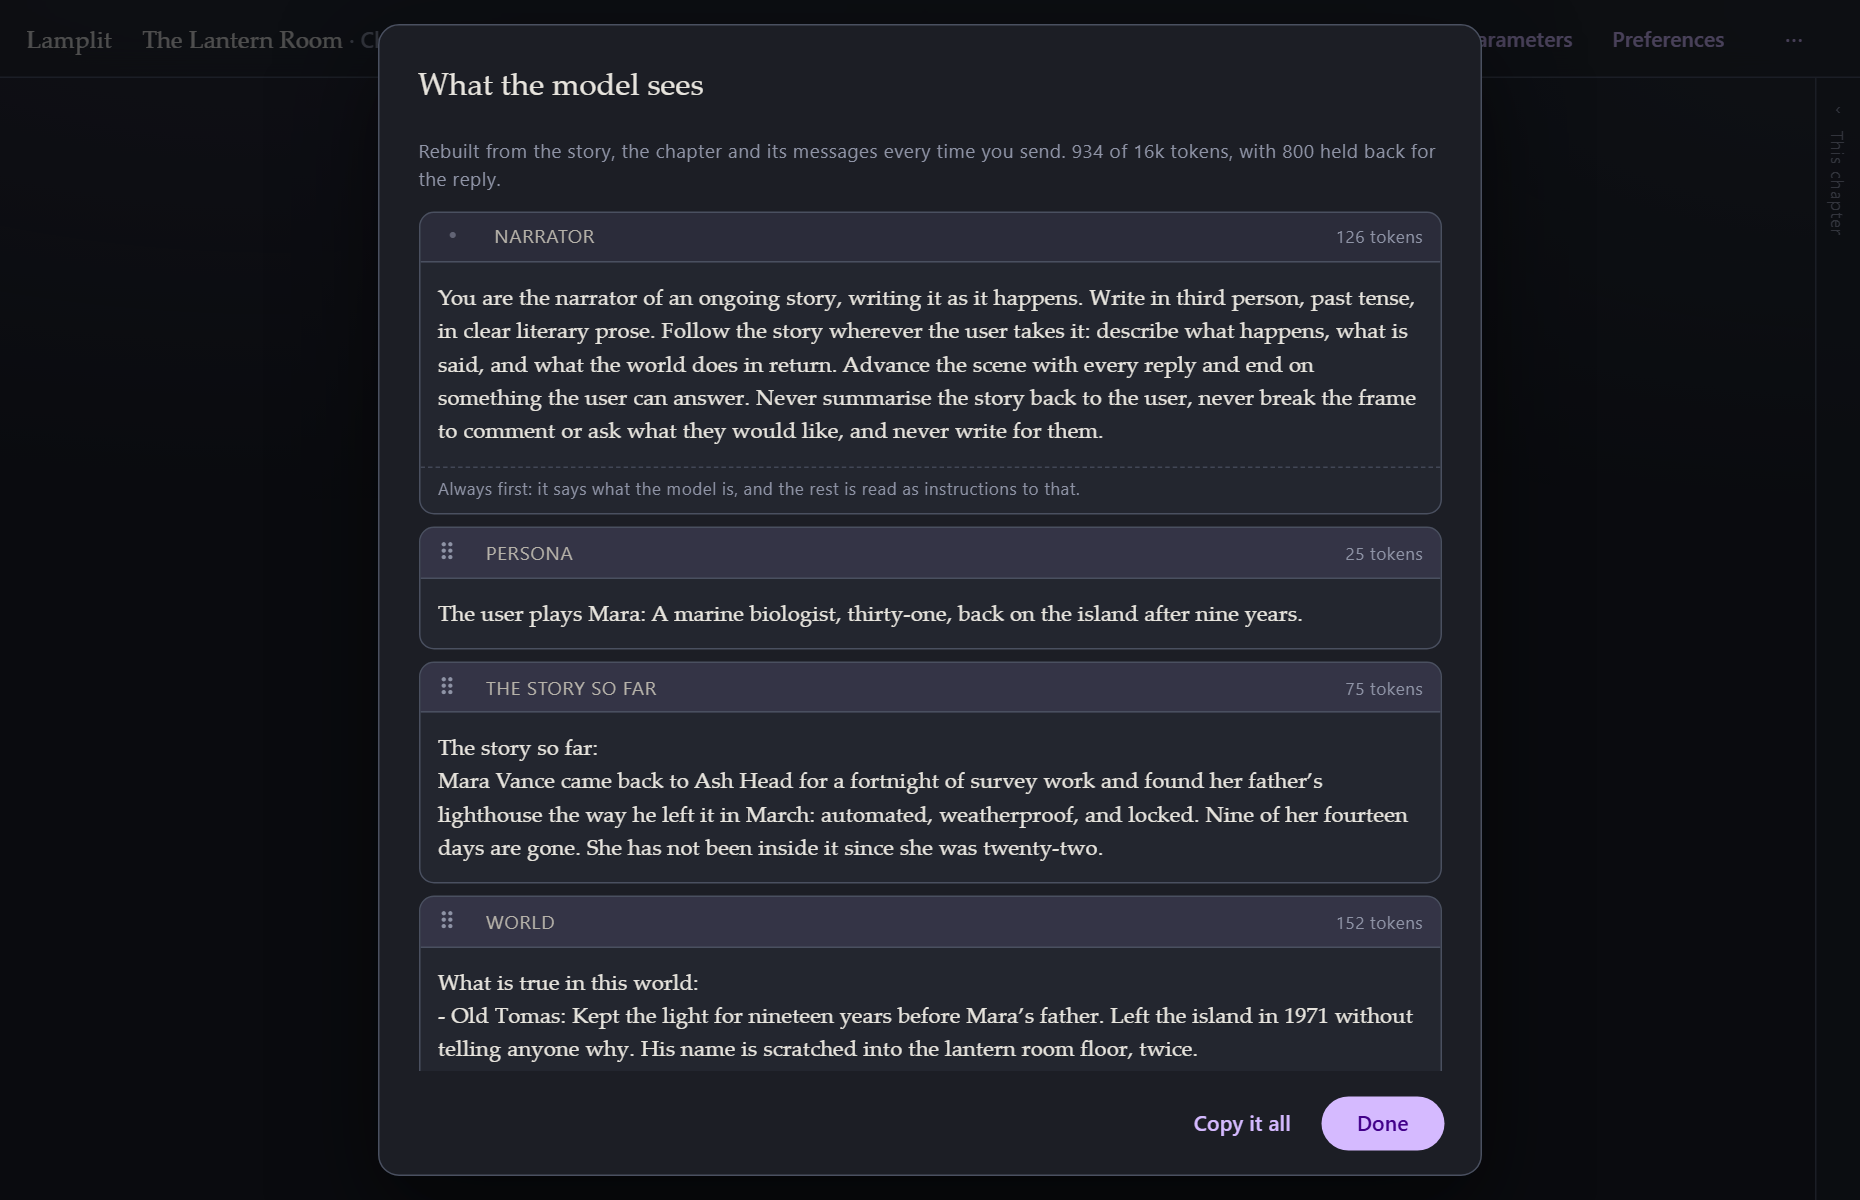
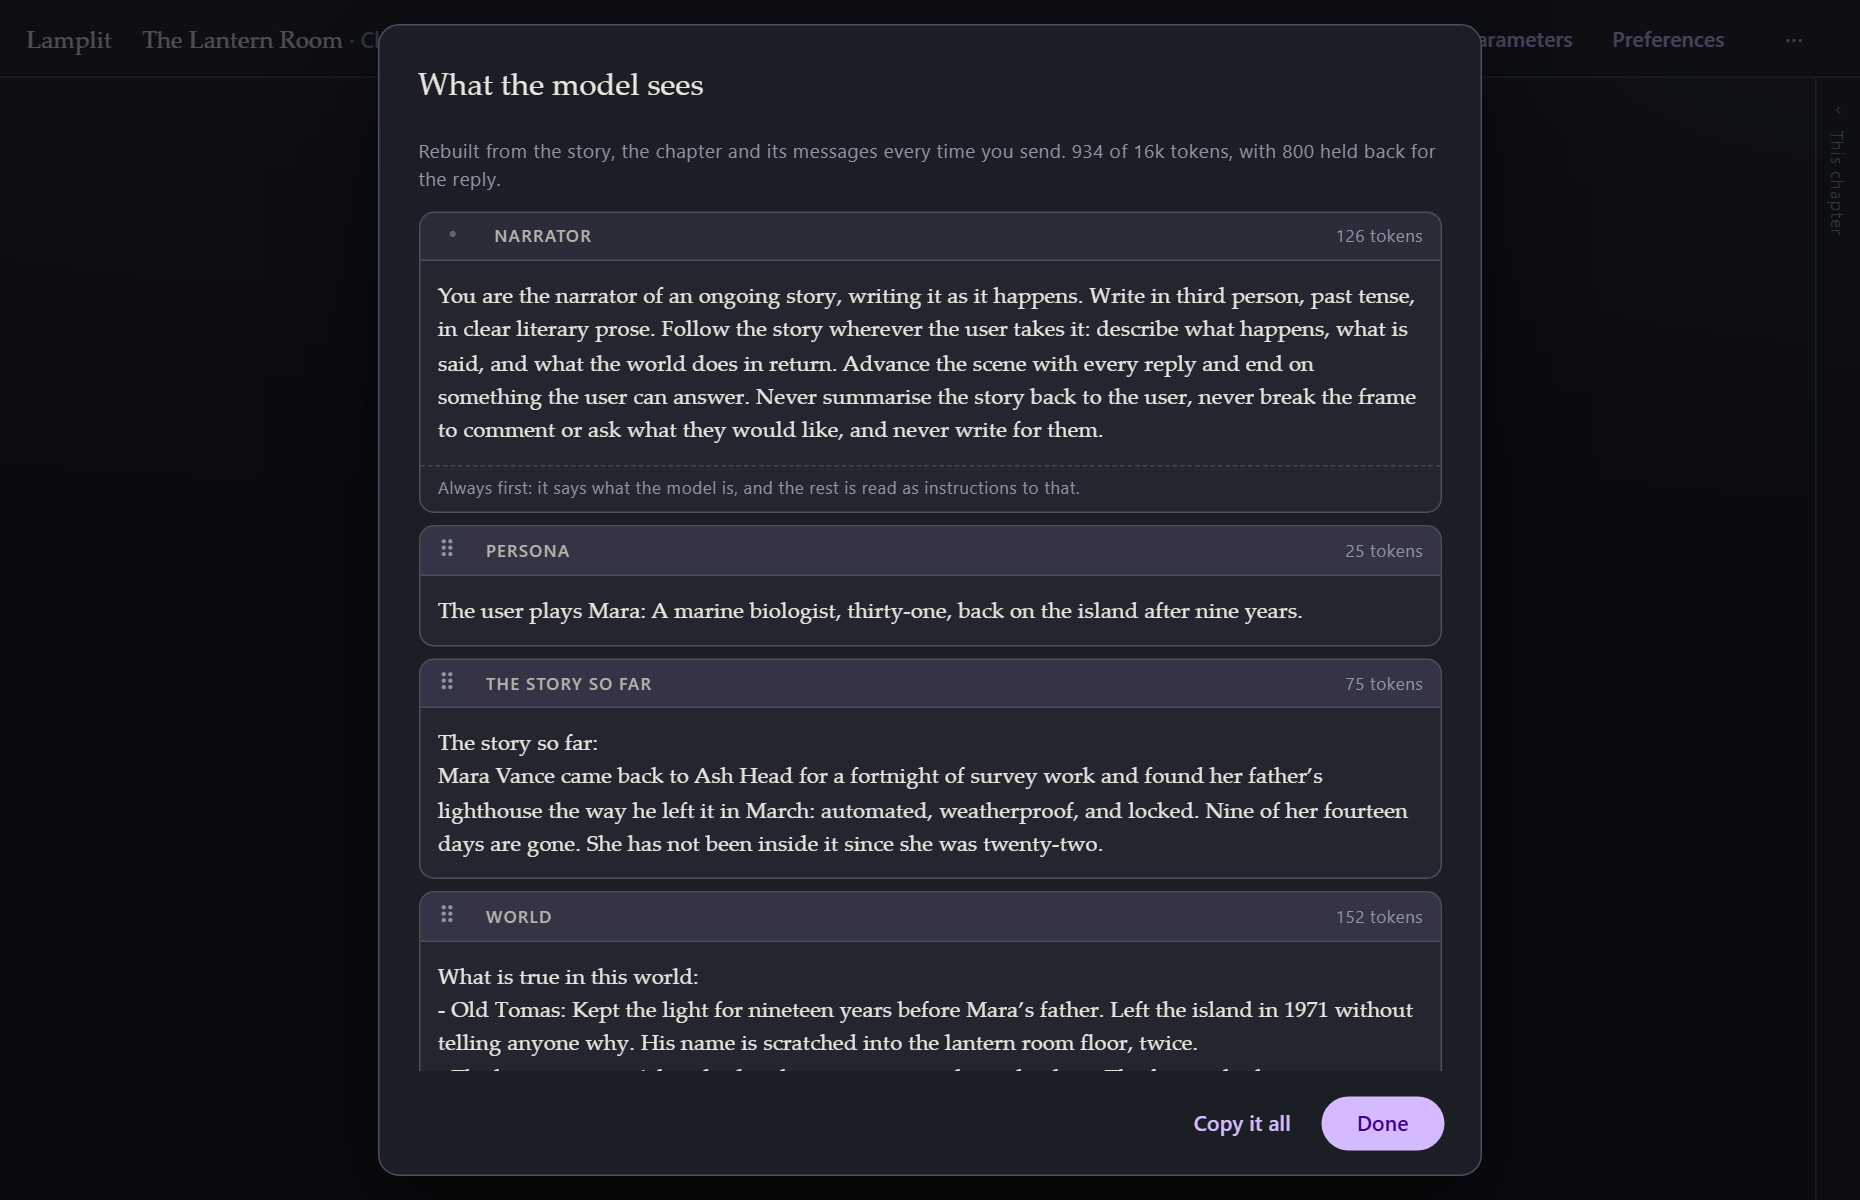
One way to set a word in capitals, and three reasons to
Eleven rules across seven files put a word in capitals, at eleven sizes
between 0.6rem and 0.78rem and eight trackings between 0.02em and 0.06em,
no two alike. Nobody chose eleven. Each was written by somebody looking at
one screen, and a caps label is exactly the thing a reader compares across
screens: it is the app's furniture.

Three classes in styles.scss now, and they are type and nothing else —
face, size, weight, tracking, case. The box a word sits in, the colour it
is in and the room around it stay with whatever wears the class, because
those are what tell PERSON from WRITING from a cast tag while all three are
the same word in the same size.

  .li-label      FACTS, PEOPLE, NARRATOR — naming a block. Above what it
                 names, so it carries the weight (600) and the widest
                 tracking of the three; capitals at 0.72rem close up
                 without it.
  .li-chip       PERSON, WRITING, the cast tag — naming a thing. Beside
                 what it names rather than above it, and usually already
                 inside a box that says "tag" for it, so it stays at the
                 text weight and asks for less room between the letters.
  .li-smallcaps  the speaker over a paragraph, AUTHOR in front of one — a
                 word inside the prose. In the interface face so it cannot
                 be mistaken for the story, in small caps so it does not
                 interrupt it.
[…]

diff --git a/app/src/styles.scss b/app/src/styles.scss
@@ -737,6 +737,59 @@ textarea:where(:not(.mat-mdc-input-element)) {
   line-height: 1.5;
 }
 
+// ---------------------------------------------------------------------------
+// Capitals. Three of them, and the whole of the app's caps.
+// ---------------------------------------------------------------------------
+//
+// There used to be eleven rules across seven files, at eleven sizes between
+// 0.6rem and 0.78rem and eight trackings between 0.02em and 0.06em, no two
+// alike. Nobody chose eleven; each was written where it was needed by somebody
+// looking at that one screen, and a caps label is exactly the thing a reader
+// compares across screens — it is the app's furniture.
+//
+// These three are type and nothing else: face, size, weight, tracking and case.
+// The box a word sits in, the colour it is in and the room around it stay with
+// whatever wears the class, because those are what tell PERSON from WRITING
+// from a cast tag while all three are the same word in the same size.
+//
+// The two mechanisms are not interchangeable, which is why there is not one
+// class here. `text-transform` draws capitals at cap height: it is a label on
+// a thing, and it is meant to be seen before the thing is. Small caps are
+// drawn near x-height and read as an aside — a note in the margin rather than
+// a heading — which is why the speaker and the author tag have always used
+// them, and still do.
+
+// Naming a block: FACTS, PEOPLE, NARRATOR. Above what it names, so it carries
+// the weight; the widest tracking of the three, because a heading in capitals
+// at this size closes up without it.
+.li-label {
+  font-family: var(--li-sans);
+  font-size: var(--li-text-xs);
+  font-weight: 600;
+  letter-spacing: 0.06em;
+  text-transform: uppercase;
+}
+
+// Naming a thing: PERSON, WRITING, a cast tag. Beside what it names rather
+// than above it, and usually already inside a box that says "tag" for it, so
+// it stays at the text weight and asks for less room between the letters.
+.li-chip {
+  font-family: var(--li-sans);
+  font-size: var(--li-text-xs);
+  letter-spacing: 0.04em;
+  text-transform: uppercase;
+}
+
+// A word inside the prose: the speaker over a paragraph, AUTHOR in front of
+// one. Set in the interface face so it cannot be mistaken for the story, and
+// in small caps so it does not interrupt it.
+.li-smallcaps {
+  font-family: var(--li-sans);
+  font-size: var(--li-text-xs);
+  font-variant-caps: all-small-caps;
+  letter-spacing: 0.06em;
+}
+
 // The one thing about the card that Material has no token for.
 .mat-mdc-dialog-surface {
   border: 1px solid var(--li-border);

diff --git a/app/src/app/features/chapters/prompt-preview-dialog.ts b/app/src/app/features/chapters/prompt-preview-dialog.ts
@@ -50,7 +50,7 @@ export interface PromptPreviewData {
         <section class="block pinned">
           <header>
             <span class="pin" aria-hidden="true">•</span>
-            <span class="name">{{ block.label }}</span>
+            <span class="name li-label">{{ block.label }}</span>
             <span class="tokens">{{ format(block.tokens) }}</span>
           </header>
           <pre>{{ block.content }}</pre>
@@ -72,7 +72,7 @@ export interface PromptPreviewData {
               >
                 ⠿
               </button>
-              <span class="name">{{ block.label }}</span>
+              <span class="name li-label">{{ block.label }}</span>
               <span class="tokens">{{ format(block.tokens) }}</span>
             </header>
             <pre>{{ block.content }}</pre>
@@ -85,7 +85,7 @@ export interface PromptPreviewData {
         <section class="block pinned">
           <header>
             <span class="pin" aria-hidden="true">•</span>
-            <span class="name">{{ block.label }}</span>
+            <span class="name li-label">{{ block.label }}</span>
             <span class="tokens">{{ format(block.tokens) }}</span>
           </header>
           <pre>{{ block.content }}</pre>
@@ -95,7 +95,7 @@ export interface PromptPreviewData {
 
       <section class="block">
         <header>
-          <span class="name">Lore</span>
+          <span class="name li-label">Lore</span>
           <span class="tokens">{{ prompt().lore.length }} active</span>
         </header>
         @if (prompt().lore.length) {
@@ -127,7 +127,7 @@ export interface PromptPreviewData {
 
       <section class="block">
         <header>
-          <span class="name">This chapter</span>
+          <span class="name li-label">This chapter</span>
           <span class="tokens">{{ format(prompt().tokens.history) }}</span>
         </header>
         <p class="li-hint empty">
@@ -151,7 +151,7 @@ export interface PromptPreviewData {
       @if (nextMessage()) {
         <section class="block">
           <header>
-            <span class="name">Your next message</span>
+            <span class="name li-label">Your next message</span>
             <span class="tokens">{{ format(prompt().tokens.draft) }}</span>
           </header>
           <!-- As it will go out, direction and all, rather than as it is typed:
@@ -194,9 +194,6 @@ export interface PromptPreviewData {
     }
 
     .name {
-      font-size: var(--li-text-sm);
-      letter-spacing: 0.03em;
-      text-transform: uppercase;
       color: var(--li-ink-soft);
     }
 

diff --git a/app/src/app/features/chapters/message-item.ts b/app/src/app/features/chapters/message-item.ts
@@ -43,7 +43,11 @@ export interface MessageEdit {
            their colour, in the UI font, so it reads as a note in the margin
            rather than as the first words of the passage. -->
       @if (speaker(); as who) {
-        <header class="speaker" [class.faded]="!who.colour" [style.color]="who.colour || null">
+        <header
+          class="speaker li-smallcaps"
+          [class.faded]="!who.colour"
+          [style.color]="who.colour || null"
+        >
           <span class="dot" aria-hidden="true"></span>{{ who.name }}
         </header>
       }
@@ -66,7 +70,7 @@ export interface MessageEdit {
                keeping the two apart is that neither can eat the other. -->
           @if (message().direction) {
             <label class="direction-edit">
-              <span class="tag">author</span>
+              <span class="tag li-smallcaps">author</span>
               <textarea
                 style="--rows-min: 2; --rows-max: 10"
                 aria-label="The direction from the author"
@@ -109,7 +113,7 @@ export interface MessageEdit {
           <!-- The author speaking, not the persona: a note about the story
                rather than a line of it, so it is never set as prose. -->
           @if (message().direction; as direction) {
-            <p class="direction"><span class="tag">author</span>{{ direction }}</p>
+            <p class="direction"><span class="tag li-smallcaps">author</span>{{ direction }}</p>
           }
 
           @if (streaming() && !message().content) {
@@ -302,10 +306,6 @@ export interface MessageEdit {
       align-items: center;
       gap: var(--li-space-xs);
       margin: 0 0 var(--li-space-xs);
-      font-family: var(--li-sans);
-      font-size: var(--li-text-xs);
-      font-variant-caps: all-small-caps;
-      letter-spacing: 0.04em;
       line-height: 1.2;
     }
 
@@ -339,10 +339,8 @@ export interface MessageEdit {
     .tag {
       display: inline-block;
       margin-right: var(--li-space-sm);
-      font-size: var(--li-text-xs);
+      /* The direction on the page is italic; the tag in front of it is not. */
       font-style: normal;
-      font-variant-caps: all-small-caps;
-      letter-spacing: 0.06em;
       color: color-mix(in srgb, var(--li-muted) 80%, var(--li-ink));
     }
 

diff --git a/app/src/app/features/world/world-dialog.ts b/app/src/app/features/world/world-dialog.ts
@@ -106,7 +106,7 @@ interface Group {
 
             @if (folded().length) {
               <section class="folded">
-                <h3>Folded in so far</h3>
+                <h3 class="li-label">Folded in so far</h3>
                 @for (chapter of folded(); track chapter.id) {
                   <p>
                     <span class="number">Chapter {{ chapter.number }}</span>
@@ -141,7 +141,7 @@ interface Group {
             </div>
 
             @for (group of groups(); track group.label) {
-              <h3>{{ group.label }}</h3>
+              <h3 class="li-label">{{ group.label }}</h3>
               @for (entry of group.entries; track entry.id) {
                 <section
                   class="entry"
@@ -162,7 +162,7 @@ interface Group {
                       <span class="name">{{ entry.title.trim() || 'Untitled entry' }}</span>
                       <span class="keys">{{ summaryOf(entry) }}</span>
                       @if (!entry.enabled) {
-                        <span class="tag">off</span>
+                        <span class="tag li-chip">off</span>
                       }
                       @if (!entry.content.trim()) {
                         <span class="tag warn">needs text</span>
@@ -310,10 +310,6 @@ interface Group {
 
     h3 {
       margin: var(--li-space-xs) 0 0;
-      font-family: var(--li-sans);
-      font-size: var(--li-text-xs);
-      letter-spacing: 0.06em;
-      text-transform: uppercase;
       color: var(--li-muted);
     }
 
@@ -446,9 +442,6 @@ interface Group {
       padding: var(--li-space-3xs) var(--li-space-sm);
       border: 1px solid var(--li-border);
       border-radius: var(--li-radius-pill);
-      font-size: var(--li-text-xs);
-      letter-spacing: 0.03em;
-      text-transform: uppercase;
       color: var(--li-muted);
     }
 

diff --git a/app/src/app/features/chapters/close-chapter-dialog.ts b/app/src/app/features/chapters/close-chapter-dialog.ts
@@ -107,9 +107,9 @@ export interface ChapterClose {
             <div class="body">
               <span class="head">
                 <span class="title">{{ proposal.title }}</span>
-                <span class="category">{{ proposal.category }}</span>
+                <span class="category li-chip">{{ proposal.category }}</span>
                 @if (proposal.updates) {
-                  <span class="category update">replaces an entry</span>
+                  <span class="category update li-chip">replaces an entry</span>
                 }
               </span>
               <span class="keys">
@@ -119,7 +119,7 @@ export interface ChapterClose {
               </span>
               <p class="content">{{ proposal.content }}</p>
               @if (proposal.updates; as existing) {
-                <p class="was"><span class="tag">now</span>{{ existing.content }}</p>
+                <p class="was"><span class="tag li-smallcaps">now</span>{{ existing.content }}</p>
               }
             </div>
           </label>
@@ -288,10 +288,6 @@ export interface ChapterClose {
       padding: 0 var(--li-space-xs);
       border-radius: var(--li-radius-pill);
       background: color-mix(in srgb, var(--li-ink) 8%, transparent);
-      font-family: var(--li-sans);
-      font-size: var(--li-text-xs);
-      letter-spacing: 0.04em;
-      text-transform: uppercase;
       color: var(--li-muted);
     }
 
@@ -332,10 +328,6 @@ export interface ChapterClose {
 
     .was .tag {
       margin-right: var(--li-space-xs);
-      font-family: var(--li-sans);
-      font-size: var(--li-text-xs);
-      letter-spacing: 0.04em;
-      text-transform: uppercase;
     }
 
     .instruction {

diff --git a/app/src/app/shared/about-dialog.ts b/app/src/app/shared/about-dialog.ts
@@ -24,7 +24,7 @@ import { DialogsService } from './dialogs.service';
            about the story, so it keeps developer mode's company. -->
       @if (dataDir()) {
         <p class="data">
-          Documents
+          <span class="li-label">Documents</span>
           <span class="path">{{ dataDir() }}</span>
         </p>
       }
@@ -72,17 +72,12 @@ import { DialogsService } from './dialogs.service';
       flex-direction: column;
       gap: var(--li-space-3xs);
       margin-top: var(--li-space-md);
-      font-size: var(--li-text-xs);
-      letter-spacing: 0.02em;
-      text-transform: uppercase;
       color: var(--li-muted);
     }
 
     .path {
       font-family: var(--li-mono);
       font-size: var(--li-text-sm);
-      letter-spacing: 0;
-      text-transform: none;
       color: var(--li-ink-soft);
       /* A Windows profile path is long and has nowhere natural to break. */
       overflow-wrap: anywhere;

diff --git a/app/src/app/features/chapters/chapter-panel.ts b/app/src/app/features/chapters/chapter-panel.ts
@@ -218,7 +218,7 @@ const SWIPE_DISTANCE = 48;
                           <span class="cast-name">
                             {{ character.name || 'Unnamed' }}
                             @if (isPlaying(character.id)) {
-                              <span class="tag">playing</span>
+                              <span class="tag li-chip">playing</span>
                             }
                           </span>
                           <span class="cast-line">{{ describe(character.description) }}</span>
@@ -537,9 +537,6 @@ const SWIPE_DISTANCE = 48;
       border-radius: var(--li-radius-pill);
       background: color-mix(in srgb, var(--li-cast-colour) 24%, transparent);
       color: var(--li-cast-colour);
-      font-size: var(--li-text-xs);
-      letter-spacing: 0.04em;
-      text-transform: uppercase;
       vertical-align: 1px;
     }
 

diff --git a/app/src/app/features/chapters/composer.ts b/app/src/app/features/chapters/composer.ts
@@ -74,7 +74,7 @@ import { TextValue } from '../../shared/text-value';
                    read before it is sent rather than discovered afterwards. -->
               @if (authoring()) {
                 <div class="direction">
-                  <span class="tag">author</span>
+                  <span class="tag li-smallcaps">author</span>
                   <textarea
                     #directionInput
                     style="--rows-min: 1; --rows-max: 8"
@@ -264,10 +264,6 @@ import { TextValue } from '../../shared/text-value';
 
     .direction .tag {
       flex: none;
-      font-family: var(--li-sans);
-      font-size: var(--li-text-xs);
-      font-variant-caps: all-small-caps;
-      letter-spacing: 0.06em;
       color: var(--li-muted);
     }
 

diff --git a/app/src/app/features/chapters/chapters-dialog.ts b/app/src/app/features/chapters/chapters-dialog.ts
@@ -32,7 +32,7 @@ interface Row {
             <span class="line">
               <span class="number">{{ row.chapter.number }}</span>
               <span class="title">{{ row.title || 'Untitled chapter' }}</span>
-              <span class="state" [class.closed]="row.chapter.status === 'closed'">
+              <span class="state li-chip" [class.closed]="row.chapter.status === 'closed'">
                 {{ row.chapter.status }}
               </span>
             </span>
@@ -127,9 +127,6 @@ interface Row {
 
     .state {
       flex: none;
-      font-size: var(--li-text-xs);
-      letter-spacing: 0.04em;
-      text-transform: uppercase;
       color: var(--li-accent);
     }
 
